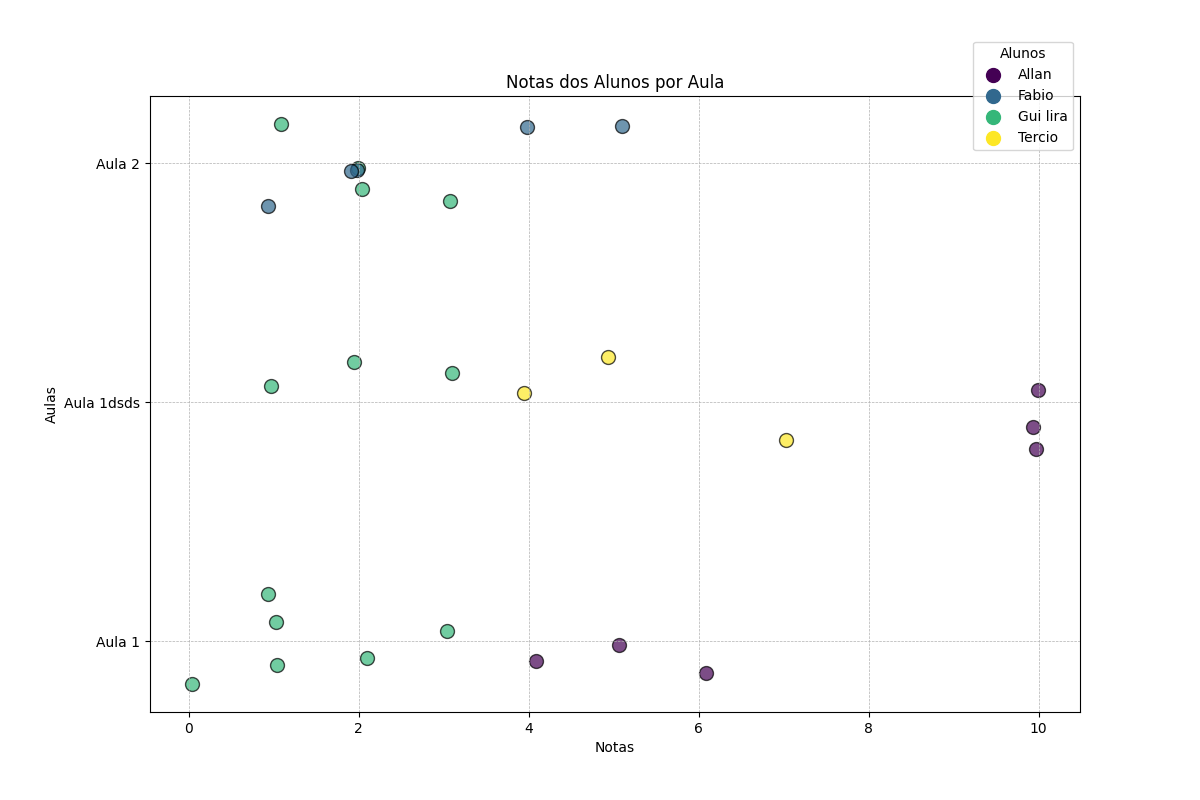
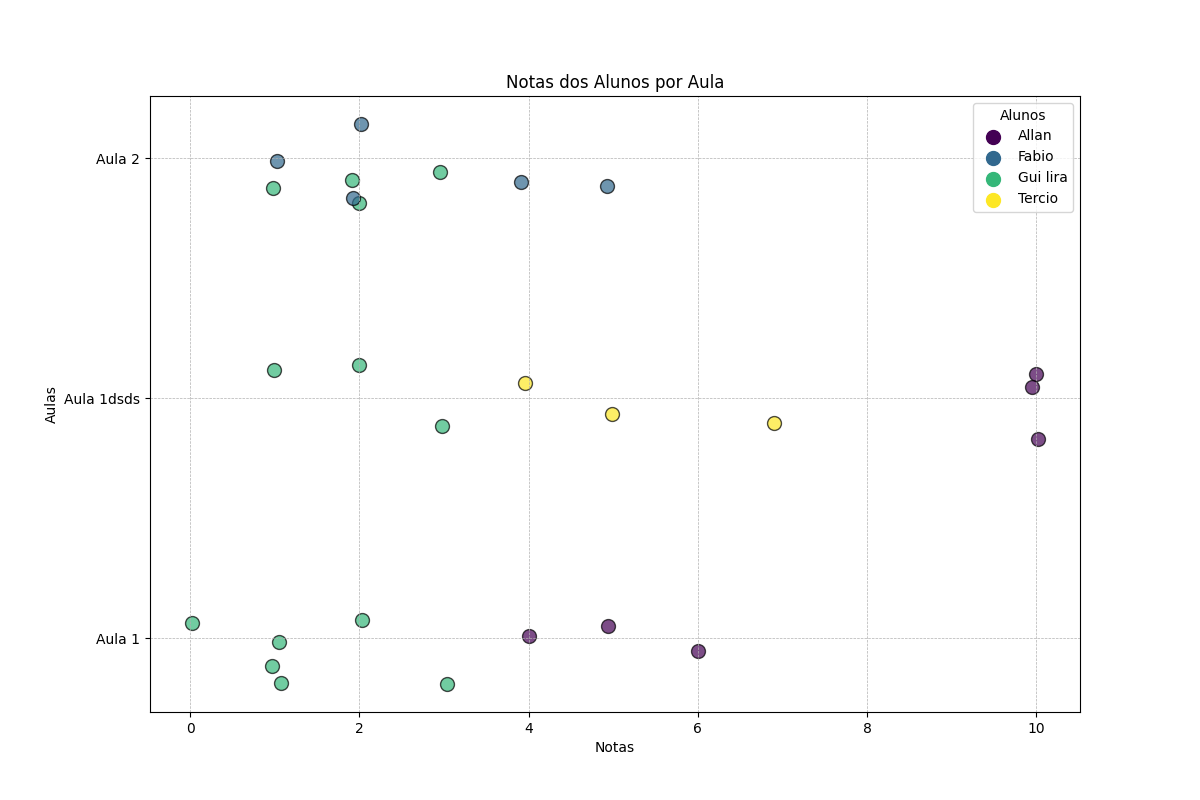
..

diff --git a/templates/feedbacks_professor.html b/templates/feedbacks_professor.html
@@ -23,15 +23,36 @@
         </section>
 
         <section>
-            <h2>Feedbacks por Aula</h2>
-            {% if respostas %}
-                <ul>            
-                    {% for resp in respostas %}
-                        <li>{{ resp }}</li>
-                    {% endfor %}
-                </ul>
+            <h2>Desempenho dos Alunos</h2>
+            {% if alunos_data %}
+                <table>
+                    <thead>
+                        <tr>
+                            <th>Aluno</th>
+                            <th>Média das Notas</th>
+                            <th>Progresso Médio</th>
+                            <th>Abaixo da Média Geral</th> <!-- Nova coluna -->
+                        </tr>
+                    </thead>
+                    <tbody>
+                        {% for aluno, dados in alunos_data.items() %}
+                            <tr>
+                                <td>{{ aluno }}</td>
+                                <td>{{ dados.nota | round(2) }}</td>
+                                <td>{{ (dados.progresso * 100) | round(2) }}%</td>
+                                <td>
+                                    {% if dados.nota is not none and dados.nota < media_geral %}
+                                        <span style="color: red;">Sim</span>
+                                    {% else %}
+                                        <span style="color: green;">Não</span>
+                                    {% endif %}
+                                </td>
+                            </tr>
+                        {% endfor %}
+                    </tbody>
+                </table>
             {% else %}
-                <p>Nenhum feedback disponível.</p>
+                <p>Nenhum dado de desempenho disponível.</p>
             {% endif %}
         </section>
 
@@ -47,15 +68,6 @@
             {% else %}
                 <p>Sem previsões de desempenho disponíveis.</p>
             {% endif %}
-        </section>
-
-        <section>
-            <!-- Resumo do Progresso -->
-            <h2>Resumo do Progresso</h2>
-            <p>Total de alunos: {{ total_alunos }}</p>
-            <p>Alunos que responderam todas as aulas: {{ alunos_completos }}</p>
-            <p>Alunos que ainda precisam responder: {{ alunos_incompletos }}</p>
-            <p>Progresso médio dos alunos: {{ progresso_medio_total | round(2) }}%</p>
         </section>
     </main>
     

diff --git a/routes/teacher_routes.py b/routes/teacher_routes.py
@@ -3,7 +3,7 @@ import os
 import numpy as np
 from werkzeug.utils import secure_filename
 from models import get_db, find_user_by_id, criar_aula, get_aulas_by_professor, get_respostas_by_aula, get_progresso_by_aula, get_alunos, Adicionar_nota, resp_aluno, update_nota_resposta, get_student_scores
-from utils import  generate_performance_plot,kmeans_clustering,generate_cluster_plot, generate_student_performance_plot
+from utils import  generate_performance_plot,kmeans_clustering,generate_cluster_plot, generate_student_performance_plot,prever_notas
 import sqlite3
 
 teacher_bp = Blueprint('teacher', __name__)
@@ -70,6 +70,7 @@ def criarAula():
 
     return render_template("criarAula.html")
 
+
 @teacher_bp.route('/dashboard_professor/feedbacks')
 def ver_feedbacks():
     if session.get('user') and session.get('tipo') == 'professor':
@@ -97,6 +98,7 @@ def ver_feedbacks():
             feedbacks[titulo_aula] = respostas if respostas else []
 
             progresso = get_progresso_by_aula(aula_id)
+            print(progresso)
 
             if progresso is None:
                 flash(f"Erro ao buscar progresso para a aula {titulo_aula}.", "error")
@@ -110,27 +112,39 @@ def ver_feedbacks():
                     progresso_por_aluno[nome] = []
                 progresso_por_aluno[nome].append(aluno['concluida'])
 
-        # Obter notas dos alunos
-        alunos_scores = get_student_scores() 
+        # Coleta as notas dos alunos
+        alunos_scores = get_student_scores()
+        print(alunos_scores)
 
-        # Transformar a lista em um dicionário para acesso mais fácil
-        alunos_scores_dict = {nome: (nota, topico) for aluno_id, nome, nota, topico in alunos_scores}
+        # Agrupar notas para evitar duplicatas
+        alunos_scores_dict = {}
+        for aluno_id, nome, nota, topico in alunos_scores:
+            if nome in alunos_scores_dict:
+                existing_nota, existing_topico = alunos_scores_dict[nome]
+                # Exemplo: Média das notas
+                new_nota = (existing_nota + nota) / 2  # média simples
+                alunos_scores_dict[nome] = (new_nota, topico)
+            else:
+                alunos_scores_dict[nome] = (nota, topico)
 
+        print(alunos_scores_dict)
         alunos_data = {}
         for nome in total_alunos:
             progresso = progresso_por_aluno.get(nome, [])
-            nota = alunos_scores_dict.get(nome, (None, None))[0]  # Pegue a nota
-
-            # Apenas adiciona dados se houver progresso e nota
+            nota = alunos_scores_dict.get(nome, (None, None))[0]
+            print(nota)
             if progresso and nota is not None:
                 alunos_data[nome] = {
-                    'progresso': sum(progresso) / len(progresso),  # Média de progresso
-                    'nota': nota  # Nota
+                    'progresso': sum(progresso),
+                    'nota': nota 
                 }
 
-        plot_url, previsoes = None, {}
+        # Previsão dos próximos resultados usando a função separada
+        previsoes = prever_notas(alunos_data)
 
-        # Gerar gráfico de desempenho individual por aluno
+        print("Previsões: ", previsoes)
+
+        plot_url = None
         if alunos_data:
             plot_url, previsoes = generate_performance_plot(alunos_data)
 
@@ -139,21 +153,25 @@ def ver_feedbacks():
 
         progresso_medio_total = sum(data['progresso'] for data in alunos_data.values()) / len(alunos_data) if alunos_data else 0
 
+       # Cálculo da média geral
+        media_geral = sum(dados['nota'] for dados in alunos_data.values() if dados['nota'] is not None)
+        media_geral = media_geral / len(alunos_data) if alunos_data else 0
+
+        # Adicione media_geral ao contexto da renderização
         return render_template(
             'feedbacks_professor.html',
             feedbacks=feedbacks,
-            respostas=respostas,
             plot_respostas_url=plot_url,
             previsoes=previsoes,
             progresso=progresso_por_aluno,
             alunos_completos=alunos_completos,
             alunos_incompletos=alunos_incompletos,
             progresso_medio_total=progresso_medio_total,
-            aula_id=aula_id
+            media_geral=media_geral,  # Adicionando média geral
+            aula_id=aula_id,
+            alunos_data = alunos_data
         )
-
     return redirect(url_for('auth.login'))
-
 
 @teacher_bp.route('/dashboard_professor/avaliar_alunos', methods=["GET"])
 def avaliar_alunos():

diff --git a/utils.py b/utils.py
@@ -91,7 +91,7 @@ def generate_cluster_plot(X, labels, centroids, alunos_data):
     
     for aluno, color in aluno_colors.items():
         plt.scatter([], [], color=color, label=aluno, marker='o', s=100)
-    plt.legend(title="Alunos", loc="center right", box_to_anchor=(1, 1))
+    plt.legend(title="Alunos", loc="upper right")
 
     plt.title('Notas dos Alunos por Aula')
     plt.xlabel('Notas')
@@ -157,7 +157,7 @@ def generate_performance_plot(alunos_data):
     # Configuração do gráfico
     plt.title('Desempenho dos Alunos: Média das Notas vs Progresso')
     plt.xlabel('Média das Notas dos Alunos')
-    plt.ylabel('Progresso Médio (0 = Incompleto, 1 = Completo)')
+    plt.ylabel('Progresso nas aulas')
     plt.legend()
     plt.grid()
 
@@ -170,3 +170,13 @@ def generate_performance_plot(alunos_data):
     plt.close()
 
     return plot_url, {}
+
+def prever_notas(alunos_data):
+    previsoes = {}
+    for nome, dados in alunos_data.items():
+        X = np.array([[dados['progresso'], dados['nota']]])
+        model = LinearRegression()
+        model.fit(X, np.array([dados['nota']])) 
+        proxima_nota = model.predict(X)[0]
+        previsoes[nome] = proxima_nota
+    return previsoes
